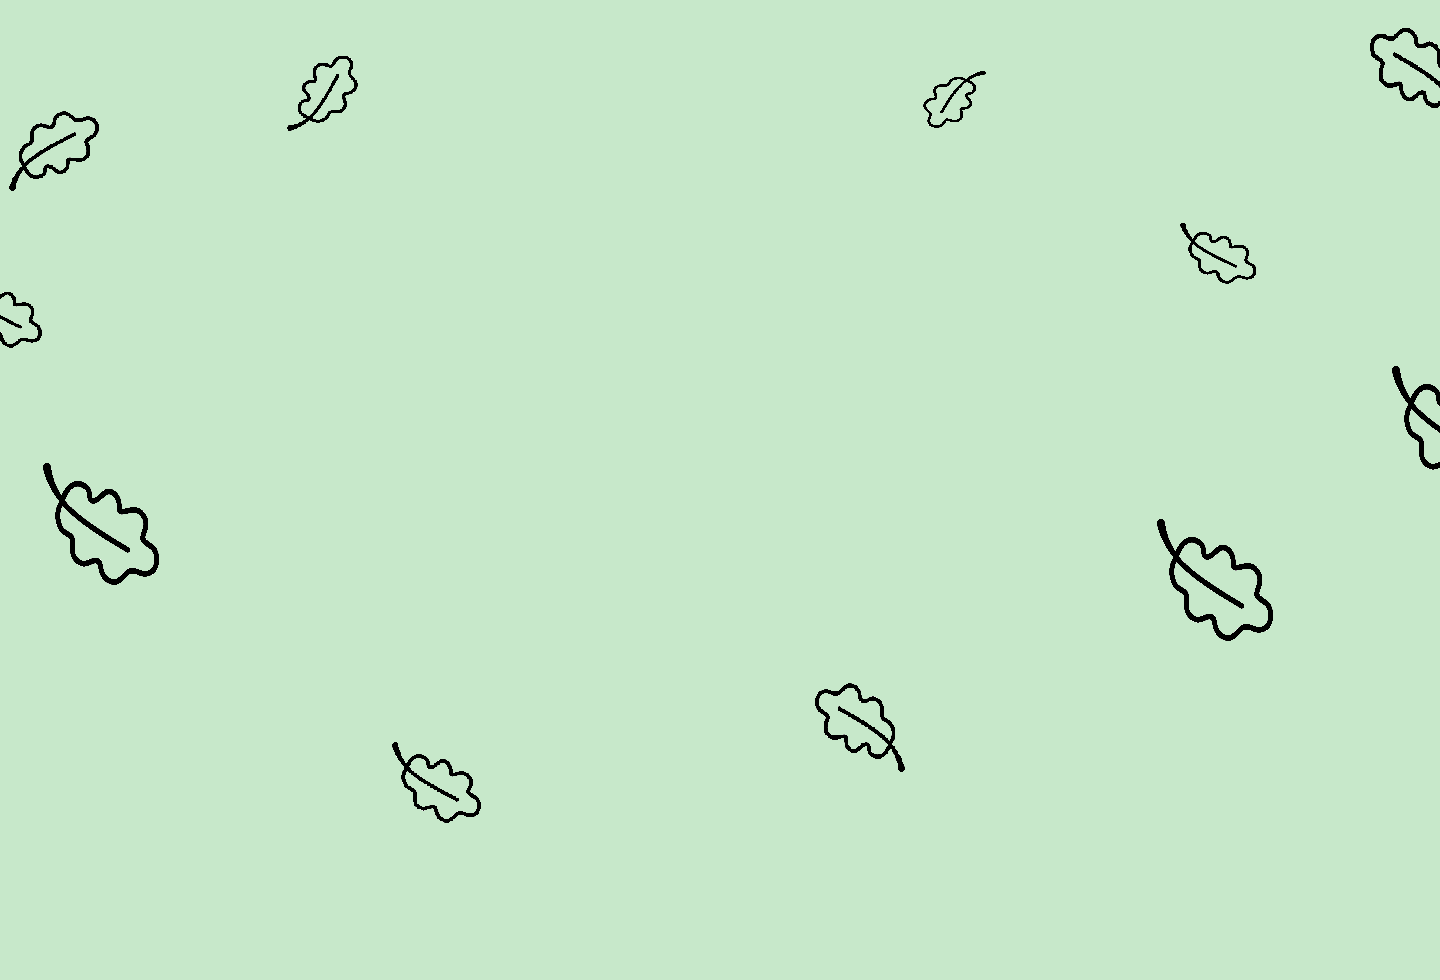
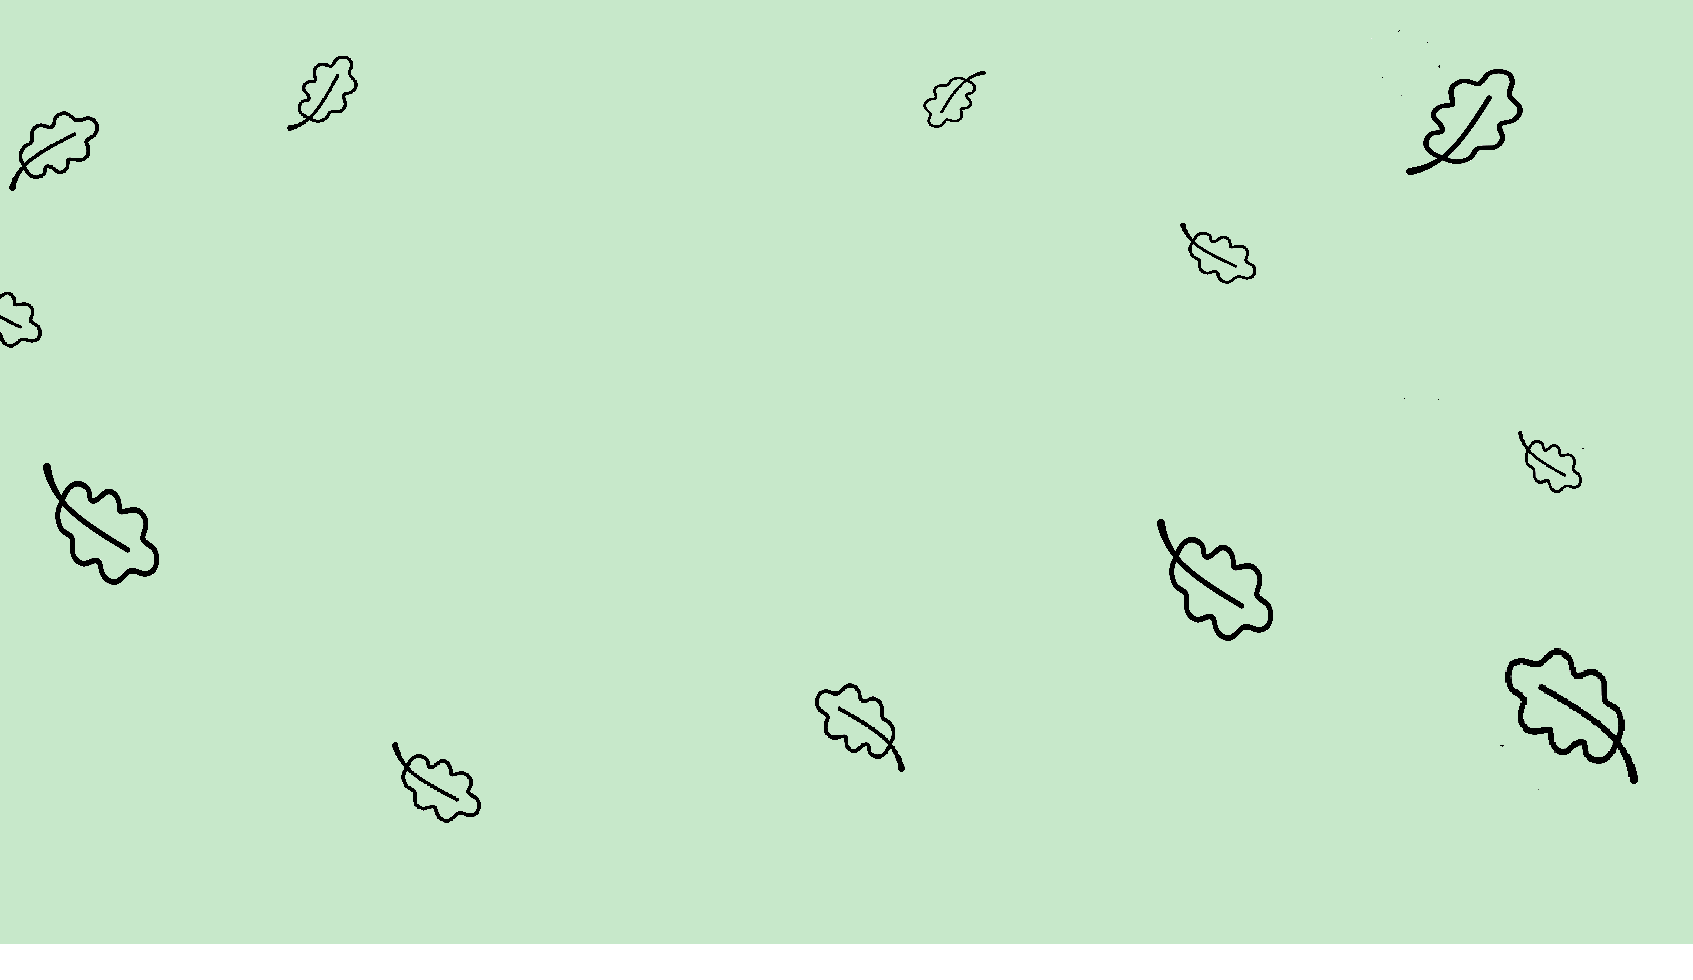
test

diff --git a/index.html b/index.html
@@ -125,9 +125,9 @@
         <div class="footerContainer">
         <div class="socials">
             <ul>
-                <li><a href="https://www.linkedin.com/in/raechel-marie-rola-57a7b5231/"><img class="linkedin" title="linkedinbtn" src="https://cdn-icons-png.flaticon.com/512/3488/3488326.png"/></a></li>
-                <li><a href="https://github.com/ProgrammerRae"><img class="github" title="gitBtn" src="https://cdn-icons-png.flaticon.com/512/3488/3488426.png"/></a></li>
-                <li><a href="#"><img class="instagram" title="igBtn" src="https://cdn-icons-png.flaticon.com/512/4406/4406253.png"/></a></li>
+                <li><a href="https://www.linkedin.com/in/raechel-marie-rola-57a7b5231/"><img class="linkedin" title="LinkedIn" src="https://cdn-icons-png.flaticon.com/512/3488/3488326.png"/></a></li>
+                <li><a href="https://github.com/ProgrammerRae"><img class="github" title="Github" src="https://cdn-icons-png.flaticon.com/512/3488/3488426.png"/></a></li>
+                <li><a href="#"><img class="instagram" title="instagram" src="https://cdn-icons-png.flaticon.com/512/4406/4406253.png"/></a></li>
             </ul>
         </div>
         <p>&copy; 2023 Raechel Rola. All rights reserved.</p>

diff --git a/MyPortfolioStyle.css b/MyPortfolioStyle.css
@@ -323,6 +323,7 @@ section{
     display: flex;
     height: 100vh;
     background-color: #C7E8CA;
+    background-image: url("leaves.png");
     }
 #portfolio h2{
     padding: 0;
